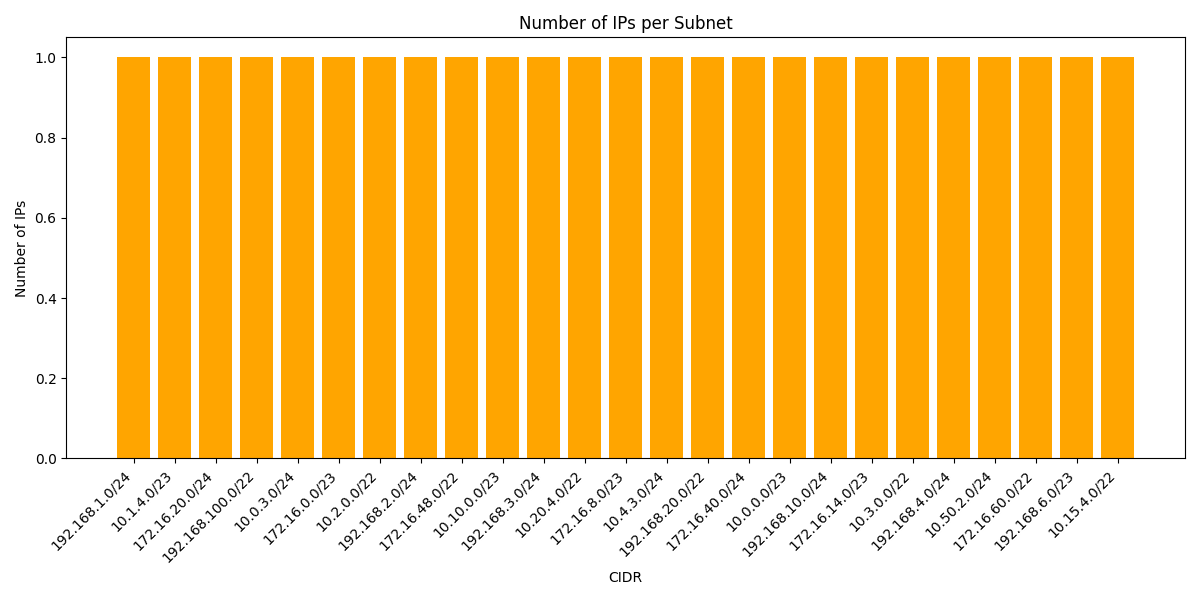
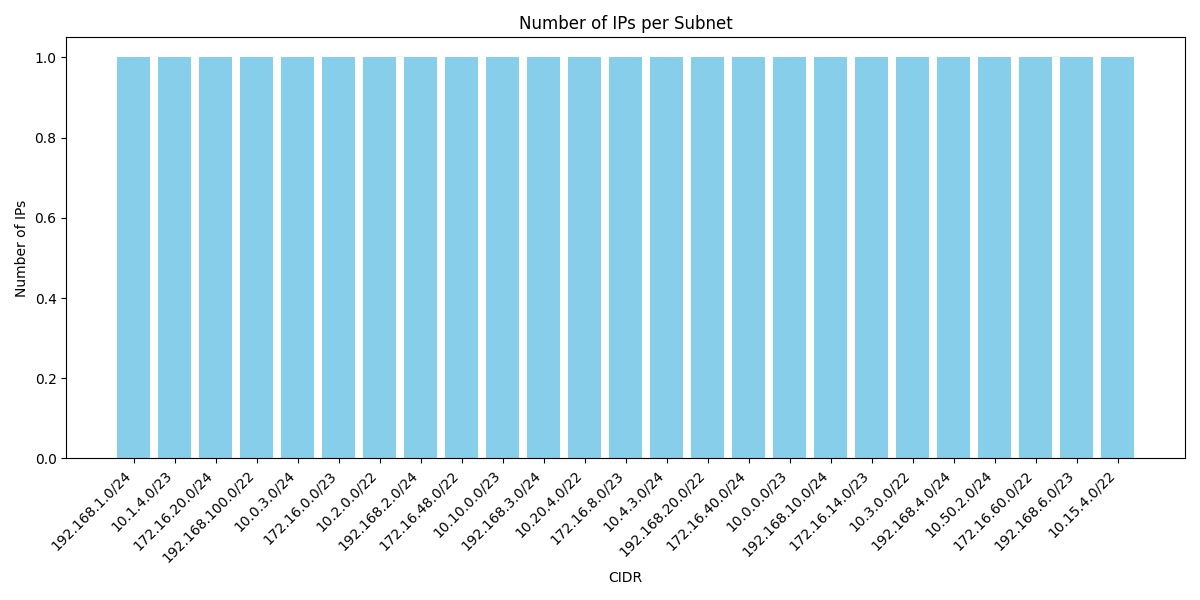
Update analysis outputs and source code

diff --git a/subnet_analyzer.py b/subnet_analyzer.py
@@ -1,13 +1,16 @@
-import pandas as pd
-import ipaddress
-from collections import defaultdict
-import os
+import pandas as pd #For reading the Excel file and handling tabular data.
+import ipaddress #Built-in Python module to analyze IPs and subnets.
+from collections import defaultdict #Automatically assigns a default value to a key that does not yet exist.
+import os #To check if the script is running in Docker via an environment variable.
 
+#Docker Environment Check
 print("🟢 Running inside Docker container" if os.environ.get("DOCKER_ENV") else "🟢 Running locally")
 
+# Load IP data from Excel file
 file_path = "ip_data.xlsx"
 df = pd.read_excel(file_path)
 
+# Function to Analyze Each Row
 def analyze_row(ip, mask):
     try:
         network = ipaddress.IPv4Network(f"{ip}/{mask}", strict=False)
@@ -26,6 +29,7 @@ def analyze_row(ip, mask):
             "Usable Hosts": None
         }
 
+# Analyze each row and create a new DataFrame with results
 results = df.apply(lambda row: analyze_row(row['IP Address'], row['Subnet Mask']), axis=1)
 result_df = pd.concat([df, pd.DataFrame(results.tolist())], axis=1)
 
@@ -33,6 +37,7 @@ result_df.to_csv("subnet_report.csv", index=False)
 print("✅ Subnet Analysis Complete")
 print("✅ Report saved to subnet_report.csv")
 
+# Advanced Grouping of Subnets
 ip_list = list(df["IP Address"])
 subnet_data = []
 

diff --git a/visualize.py b/visualize.py
@@ -8,7 +8,7 @@ df = pd.read_csv("subnet_report.csv")
 advanced_grouping = pd.read_csv("advanced_grouped_subnets.csv")
 
 plt.figure(figsize=(12, 6))
-plt.bar(advanced_grouping["CIDR"], advanced_grouping["IP Count"], color="orange")
+plt.bar(advanced_grouping["CIDR"], advanced_grouping["IP Count"], color="skyblue")
 plt.xticks(rotation=45, ha='right')
 plt.title("Number of IPs per Subnet")
 plt.xlabel("CIDR")
